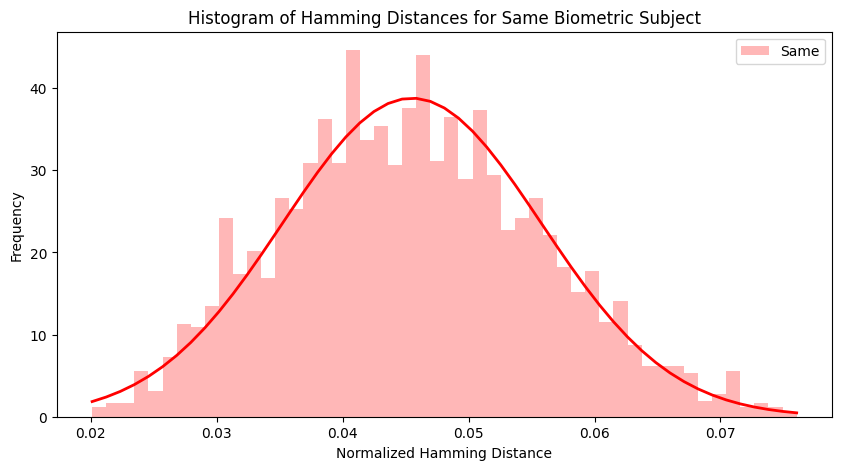
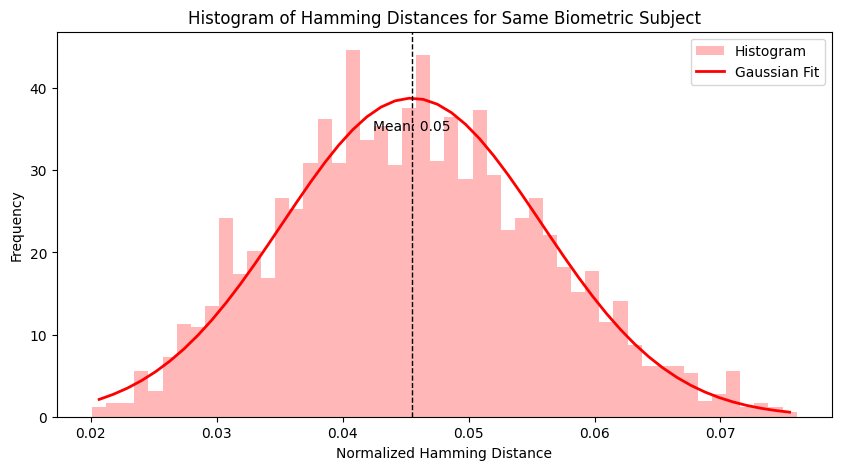
Modified the delta plots and modified the description of these plots in order to have 2 numbers after the comma

Changed region(s): [[0.8038, 0.0894, 0.9893, 0.1787], [0.4328, 0.1787, 0.5565, 0.2979]]

diff --git a/report/parts/Biometric_Setting.tex b/report/parts/Biometric_Setting.tex
@@ -11,11 +11,11 @@ We begin by delving into the representation of the biometric data. Finger images
 
 In the biometric context, each finger serves as a biometric subject, with a corresponding biometric capture represented as a bitstring \(X\) of length \(n\). This bitstring encapsulates the specific vein pixel information extracted from the finger image, while the biometric template serves as a reference model derived from these images. 
 
-Each of the \(n\) bits of the biometric capture is designated as \(X_1, \ldots, X_n\), with \(X_i\) set to \(1\) if the \(i\)-th bit corresponds to a vein and \(0\) otherwise. We define the random variable \(\left( \frac{\text{HW}(X)}{n} \right)\), as the Hamming Weight of a feature vector\footnote{The terms "feature vector" and "bitstring" are used interchangeably throughout this report to refer to the vein pixel information extracted from the finger image.} \(X\) divided by the total number of bits in the vector. We define the value \(p\) \footnote{Throughout this report, experimentally derived variables are denoted with the superscript "obs" (e.g., \(\text{var}^{\text{obs}}\)), while theoretical variables are presented without any superscript.} as the mean of this random variable.
+Each of the \(n\) bits of the biometric capture is designated as \(X_1, \ldots, X_n\), with \(X_i\) set to \(1\) if the \(i\)-th bit corresponds to a vein and \(0\) otherwise. We define the random variable \(\left( \frac{\text{HW}(X)}{n} \right)\), as the Hamming Weight of a feature vector\footnote{The terms "feature vector" and "bitstring" are used interchangeably throughout this report to refer to the vein pixel information extracted from the finger image.} \(X\) divided by the total number of bits in the vector. We define the value \(p\)\footnote{Throughout this report, experimentally derived variables are denoted with the superscript "obs" (e.g., \(\text{var}^{\text{obs}}\)), while theoretical variables are presented without any superscript.} as the mean of this random variable.
 
 \begin{equation} \label{eq:p}
     \begin{aligned}
-        p = \mathbb{E}\left( \frac{\text{HW}(X)}{n} \right) = Pr\left(X_i = 1\right)
+        p = \mathbb{E}\left( \frac{\text{HW}(X)}{n} \right) = Pr\left[X_i = 1\right]
     \end{aligned}
 \end{equation}
 
@@ -26,15 +26,15 @@ In the case where \(i\) is a uniformly distributed random index and \(X\) is ran
 \end{equation}
 
 \begin{equation} \label{eq:proba2}
-    \sigma_{p}^{\text{obs}} = \sqrt{\mathbb{E} \left[ \left( \frac{\text{HW}(X)}{n} - p^{\text{obs}} \right)^2 \right]} \approx 4.69 \times 10^{-3}
+    \sigma_{p}^{\text{obs}} \text{\footnotemark} = \sqrt{\mathbb{E} \left[ \left( \frac{\text{HW}(X)}{n} - p^{\text{obs}} \right)^2 \right]} \approx 4.69 \times 10^{-3}
 \end{equation}
-
+\footnotetext{In this context, \( \sigma_{p}^{\text{obs}} \) denotes the observed standard deviation, and \( (\sigma_{p}^{\text{obs}})^2 \) represents the observed variance of the random variable \(\left( \frac{\text{HW}(X)}{n} \right)\), which has a mean \(p\). These notations will be used consistently throughout our report. Note that \(p\) is the mean of the random variable, not the variable itself.}
 
 \begin{equation} \label{eq:proba3}
     (\sigma_{p}^{\text{obs}})² = \mathbb{V}\left( \frac{\text{HW}(X)}{n} \right)  \approx 2.20 \times 10^{-5}
 \end{equation}
 
-In this context, \( \sigma_{p}^{\text{obs}} \) represents the observed standard deviation, and \( (\sigma_{p}^{\text{obs}})^2 \) represents the observed variance of the random variable \(\left( \frac{\text{HW}(X)}{n} \right)\), which has a mean value of \(p\). These notations will be used consistently throughout our report. It's important to note that \(p\) is not the random variable itself but rather the mean of the random variable for which we are calculating the mean and standard deviation.\\
+%In this context, \( \sigma_{p}^{\text{obs}} \) represents the observed standard deviation, and \( (\sigma_{p}^{\text{obs}})^2 \) represents the observed variance of the random variable \(\left( \frac{\text{HW}(X)}{n} \right)\), which has a mean value of \(p\). These notations will be used consistently throughout our report. It's important to note that \(p\) is not the random variable itself but rather the mean of the random variable for which we are calculating the mean and standard deviation.\\
 
 In biometric authentication and identification, the uniqueness of each biometric capture is encoded in its bits. The objective revolves around discerning the similarity between two biometric captures to verify or identify two individuals. Therefore, the scoring mechansim plays a crucial role in quantatively determining the similarity between biometric captures. This similarity score holds significance in verifying the identity of an individual (authentication) or identifying potential matches in a database (identification). A higher score indicates a greater ressemblance between captures, while a lower score suggests less similarity. This scoring mechanism is indispensable for ensuring the accuracy and reliability of biometric systems. The score of (\(X\), \(Y\)) is computed as
 
@@ -206,7 +206,7 @@ To accurately evaluate \( \delta_{\text{same}} \) and \( \delta_{\text{diff}} \)
         \begin{figure}[H]
             \centering
             \includegraphics[width=0.7\linewidth]{latex-img/delta_same.png}
-            \caption{Frequency Distribution of Normalized Hamming Distances for Identical Biometric Samples with Alignment \(\delta_{same} \sim \mathcal{N}(0.045, 0.000106)\)}
+            \caption{Frequency Distribution of Normalized Hamming Distances for Identical Biometric Samples with Alignment \(\delta_{same} \sim \mathcal{N}(0.05, 1.06 \times 10^{-4})\)}
             \label{delta_same}
         \end{figure}
         
@@ -219,7 +219,7 @@ To accurately evaluate \( \delta_{\text{same}} \) and \( \delta_{\text{diff}} \)
         \begin{figure}[H]
             \centering
             \includegraphics[width=0.7\linewidth]{latex-img/delta_diff.png}
-            \caption{Frequency Distribution of Normalized Hamming Distances for Different Biometric Samples with Alignment \(\delta_{diff} \sim \mathcal{N}(0.0599, 0.0000458)\)}
+            \caption{Frequency Distribution of Normalized Hamming Distances for Different Biometric Samples with Alignment \(\delta_{diff} \sim \mathcal{N}(0.06, 4.58 \times 10^{-5})\)}
             \label{delta_diff}
         \end{figure}
     \end{itemize}
